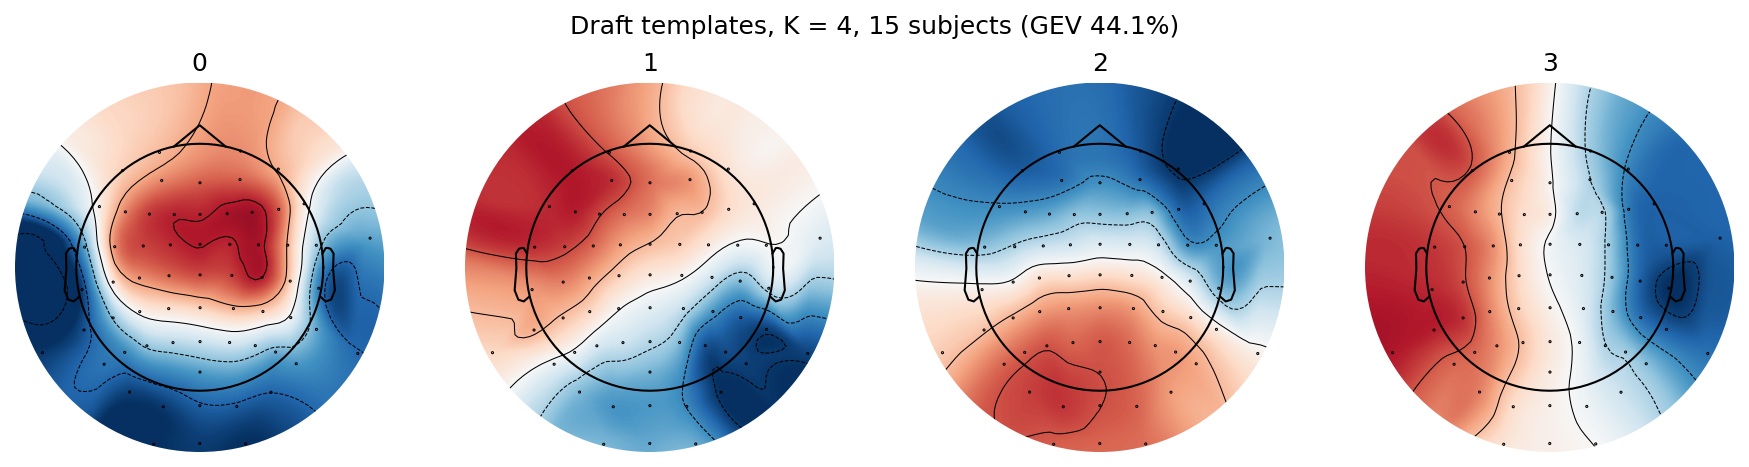
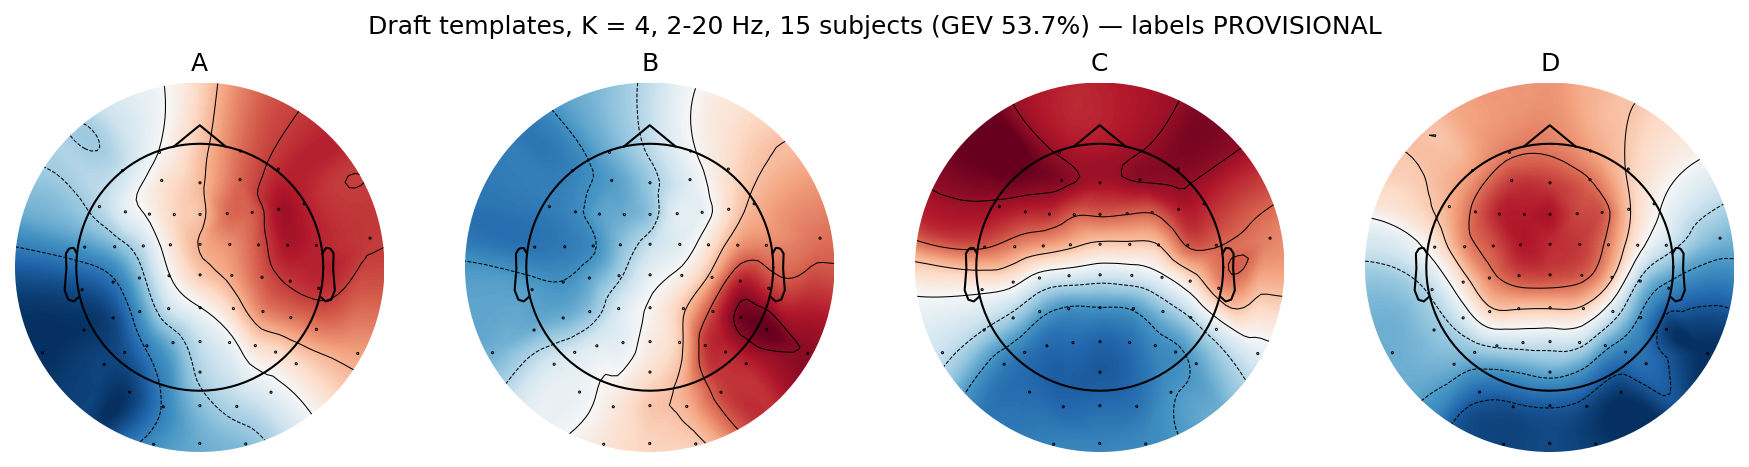
feat: refit draft templates at 2-20 Hz without sub-P048
- config.yaml: microstate band-pass 2-20 Hz (team decision Oct 22); GFP-peak
  outlier definition and min_peak_distance_samples written explicitly
- src/microstates.py: min peak distance from config; label_templates()
- notebooks/chuong_templates.py: draft exclusions with seeded same-group
  replacement (sub-P048 -> sub-P009); provisional A-D labels
- new draft topomaps; PROGRESS.md decision log, blockers, daily log

diff --git a/notebooks/chuong_templates.py b/notebooks/chuong_templates.py
@@ -15,11 +15,29 @@ logging.getLogger("mne").setLevel(logging.ERROR)
 
 import matplotlib
 matplotlib.use("Agg")
+import numpy as np
 
 from src import io as pio, microstates as ms, preprocess as pp
 
 cfg = pio.load_config()
 draft = cfg["microstates"]["draft_templates"]
+k = draft["k"]
+band = "-".join(f"{f:g}" for f in cfg["preprocessing"]["bandpass_hz"])
+
+# Draft subjects removed by team decision, replaced by a random subject of the
+# same group (seed from config).
+DRAFT_EXCLUDE = {
+    "sub-P048": "artifact-dominated individual maps (team decision, Oct 22)",
+}
+
+# PROVISIONAL state labels by visual inspection of the draft maps
+# (A = right-frontal/left-posterior, B = left-frontal/right-posterior,
+# C = anterior-posterior, D = fronto-central; polarity ignored).
+# PROVISIONAL_ORDER[i] = fitted map index that becomes label i.
+# Set to None to save unlabeled maps for inspection.
+# Final labels are fixed on the final templates.
+PROVISIONAL_ORDER = [0, 1, 3, 2]  # Oct 22 draft (2-20 Hz, P048 replaced by P009)
+LABELS = ["A", "B", "C", "D"]
 
 # %% Subjects passing both the Rest and Simon rules
 rest, _ = pp.select_subjects("Rest", cfg)
@@ -27,22 +45,38 @@ simon, _ = pp.select_subjects("Simon", cfg)
 both = pp.select_rest_vs_simon(rest, simon, cfg)
 pool = pio.load_subjects(cfg).set_index("subject_id").loc[both].reset_index()
 ids = ms.stratified_sample(pool, draft["n_subjects"], cfg)
+
+rng = np.random.default_rng(cfg["random_seed"])
+for sid, reason in DRAFT_EXCLUDE.items():
+    group = pool.set_index("subject_id").loc[sid, "group"]
+    candidates = sorted(set(pool.loc[pool.group == group, "subject_id"]) - set(ids))
+    new = str(rng.choice(candidates))
+    ids = sorted(set(ids) - {sid} | {new})
+    print(f"Excluded {sid} ({reason}); replaced by {new} ({group})")
 print("Draft subjects:", ids)
 print(pool.set_index("subject_id").loc[ids, "group"].value_counts().to_dict())
 
 # %% Two-level fit
-group, individual, table = ms.fit_templates(ids, draft["k"], cfg)
-path = ms.save_templates(group, cfg)
-print("Saved", path)
+group, individual, table = ms.fit_templates(ids, k, cfg)
 print(table.to_string(index=False))
 print(f"Group-level GEV (on individual maps): {group.GEV_:.3f}")
 print(f"Template GEV on subjects' GFP peaks: {table.gev_template.mean():.3f} "
       f"± {table.gev_template.std():.3f}")
 
-# %% Topomaps
+# %% Topomaps, labeled if the provisional order is set
+title = (f"Draft templates, K = {k}, {band} Hz, {len(ids)} subjects "
+         f"(GEV {table.gev_template.mean():.1%})")
+if PROVISIONAL_ORDER is None:
+    name = f"chuong_templates_K{k}_draft_unlabeled.png"
+else:
+    ms.label_templates(group, PROVISIONAL_ORDER, LABELS)
+    title += " — labels PROVISIONAL"
+    name = f"chuong_templates_K{k}_draft.png"
 fig = group.plot(show=False)
-fig.suptitle(f"Draft templates, K = {draft['k']}, {len(ids)} subjects "
-             f"(GEV {table.gev_template.mean():.1%})")
-out = pio.results_dir(cfg, "figures", f"chuong_templates_K{draft['k']}_draft.png")
+fig.suptitle(title)
+out = pio.results_dir(cfg, "figures", name)
 fig.savefig(out, dpi=150, bbox_inches="tight")
 print("Saved", out)
+
+if PROVISIONAL_ORDER is not None:
+    print("Saved", ms.save_templates(group, cfg))

diff --git a/src/microstates.py b/src/microstates.py
@@ -36,14 +36,17 @@ def gfp(data):
 def extract_peaks(raw, cfg):
     """GFP-peak maps of one recording, without high-GFP outliers.
 
+    Peaks are local GFP maxima at least ``min_peak_distance_samples`` apart.
     Peaks whose GFP exceeds the recording's mean + ``gfp_peak_outlier_sd`` SD
     (computed over the GFP values at the peaks) are dropped. Returns a
     pycrostates ChData of shape (n_channels, n_peaks).
     """
-    peaks = extract_gfp_peaks(raw, picks="eeg", verbose="error")
+    ms = cfg["microstates"]
+    peaks = extract_gfp_peaks(raw, picks="eeg", verbose="error",
+                              min_peak_distance=ms["min_peak_distance_samples"])
     data = peaks.get_data()
     peak_gfp = gfp(data)
-    limit = peak_gfp.mean() + cfg["microstates"]["gfp_peak_outlier_sd"] * peak_gfp.std()
+    limit = peak_gfp.mean() + ms["gfp_peak_outlier_sd"] * peak_gfp.std()
     keep = peak_gfp <= limit
     return ChData(data[:, keep], peaks.info)
 
@@ -171,6 +174,18 @@ def fit_templates(subject_ids, k, cfg):
     return group, individual, table
 
 
+def label_templates(cluster, order, names):
+    """Reorder and rename templates in place, so state ``i`` is ``names[i]``.
+
+    ``order[i]`` is the current index of the map that becomes ``names[i]``,
+    e.g. ``order=[1, 3, 2, 0], names=["A", "B", "C", "D"]``. Labels are
+    assigned by visual inspection (config ``state_labels``).
+    """
+    cluster.reorder_clusters(order=list(order))
+    cluster.rename_clusters(new_names=list(names))
+    return cluster
+
+
 # ------------------------------------------------------------------
 # Templates on disk
 # ------------------------------------------------------------------
@@ -205,7 +220,7 @@ def backfit(inst, templates, cfg, **kwargs):
     Uses ``min_segment_length_samples`` and ``reject_edges`` from config;
     any keyword passed here overrides them or adds other
     ``ModKMeans.predict`` options. The data must be preprocessed like the
-    templates (1-40 Hz, 250 Hz) and contain the same channel names. Units
+    templates (``preprocessing`` in config) and contain the same channel names. Units
     don't matter (spatial correlation is scale-free).
 
     Returns a pycrostates RawSegmentation or EpochsSegmentation; ``.labels``

diff --git a/PROGRESS.md b/PROGRESS.md
@@ -67,7 +67,7 @@ See `README.md` for the plan and `docs/proposal.tex` for the full proposal.
 |---|---|---|---|---|
 | Shared loading and preprocessing functions (1–40 Hz, 250 Hz, exclusion) | Chuong | Oct 21 | ✅ | `src/io.py`, `src/preprocess.py`; n: Rest 149, Simon 141, both 141 |
 | GFP-peak extraction, with equal peaks per subject and task | Chuong | Oct 21 | ✅ | `ms.subject_peaks`; outliers > mean + 3 SD of peak GFP dropped per recording |
-| Draft templates (~15 subjects, K = 4) | Chuong | Oct 21 | ✅ | Unblocks Seonwoo, Minseo, Bohyeon. 10 PD + 5 C; template GEV 44.1% ± 12.5%; `results/figures/chuong_templates_K4_draft.png`. A–D labels not assigned yet |
+| Draft templates (~15 subjects, K = 4) | Chuong | Oct 21 | ✅ | Unblocks Seonwoo, Minseo, Bohyeon. Refit Oct 22 at 2–20 Hz with sub-P048 replaced by sub-P009: 10 PD + 5 C; template GEV 53.7% ± 9.0% (group level 75.5%); labels A–D **provisional**; `results/figures/chuong_templates_K4_draft.png` |
 | Final group templates (fit K = 4–7; report K = 4 and 5) | Chuong | Oct 22 | ⬜ | |
 | Task-specific templates and spatial-correlation check | Chuong | Oct 22 | ⬜ | |
 | Back-fitting function shared in `src/microstates.py` | Chuong | Oct 21 | ✅ | `ms.load_templates(4, cfg)`, `ms.backfit(inst, templates, cfg)`; epochs via `pio.epochs_to_mne` |
@@ -187,6 +187,8 @@ To be planned after the Oct 26 feedback. Planned so far:
 | Oct 20 | Recovery after conflict included as exploratory pilot (from "Rank 2") | All |
 | Oct 20 | Spectral parameterization moved to Phase 2 as alpha control; prediction moved to Phase 3 | All
 | Oct 20 | Shared rules adopted as in config.yaml (no objections) | All |
+| Oct 22 | Microstate band-pass changed to 2-20 Hz to reduce muscle contamination; decided before any results | Chuong |
+| Oct 22 | GFP-peak outlier cut (per recording, over peak GFP values) and minimum peak distance (1 sample, pycrostates default) written explicitly into config.yaml; no change in behaviour | Chuong |
 | | | |
 
 ## Blockers
@@ -194,8 +196,8 @@ To be planned after the Oct 26 feedback. Planned so far:
 | Date raised | Blocker | Who is blocked | Owner | Resolved? |
 |---|---|---|---|---|
 | Oct 21 | Simon epoch files don't carry a readable trial table (MATLAB `table`, not decodable by h5py). Checked all 147 subjects: `lock-cue` = one epoch per `trials.tsv` row; `lock-resp` = one epoch per row with non-missing `onset_response`. `beh_accuracy == 99` rows have a timeout `onset_response` (`rt_eeg` ≈ 1.0 s), so drop them in response-locked analyses. Use `src.io.match_trials`. Open point: epoch order assumed equal to TSV order (counts match; order not verifiable without MATLAB) | Minseo (recovery), Seonwoo | Chuong | Resolved with rule; order check open |
-| Oct 21 | sub-P048 (draft set) looks artifact-dominated: individual maps peak at AF8/Fp2, FC5/T7, TP10/I1; template GEV 16% vs 44% mean. No config rule covers this | Chuong (final templates) | Chuong | No, needs team decision |
-| Oct 21 | Draft template states not yet matched to canonical A–D (config: visual inspection, fixed once). Needed before `microstates_task.csv` column names | Chuong, all | Chuong | No |
+| Oct 21 | sub-P048 (draft set) looks artifact-dominated: individual maps peak at AF8/Fp2, FC5/T7, TP10/I1; template GEV 16% vs 44% mean. No config rule covers this | Chuong (final templates) | Chuong | Draft: yes (P048 replaced by P009). Data-quality rule for final templates: wording open (individual-fit GEV doesn't flag P048) |
+| Oct 21 | Draft template states not yet matched to canonical A–D (config: visual inspection, fixed once). Needed before `microstates_task.csv` column names | Chuong, all | Chuong | Provisional labels on draft (Oct 22); final labels on final templates |
 
 ## Daily log
 
@@ -204,3 +206,4 @@ To be planned after the Oct 26 feedback. Planned so far:
 | Oct 20 | | | |
 | Oct 21 | Chuong | Milestone 1: loading/preprocessing in `src/`, exclusion logged (Rest 149→149; Simon 149→147→141 after `trials_simon`; nInterp > 6 removed none; 35/149 Rest flagged `nICremoved == 0`); env + `requirements.txt` | GFP peaks and draft templates |
 | Oct 21 | Chuong | Milestone 2: GFP peaks + two-level modified k-means; draft K = 4 templates (15 subjects, 10 PD / 5 C) saved to `results/templates/templates_K4.fif`; group GEV 68.1% on individual maps, 44.1% ± 12.5% on subjects' GFP peaks; `backfit` tested on Raw and Epochs; `match_trials`, `epochs_to_mne` helpers | A–D labels, P048 decision, then task-level metrics |
+| Oct 22 | Chuong | Band-pass 2–20 Hz in config; draft K = 4 refit without sub-P048 (replaced by sub-P009, seed 42): group GEV 75.5%, template GEV 53.7% ± 9.0%; provisional A–D labels; tested proposed GEV data-quality rule (does not flag P048 on individual-fit GEV) | Team check of maps; QC rule wording; Milestone 3 |
